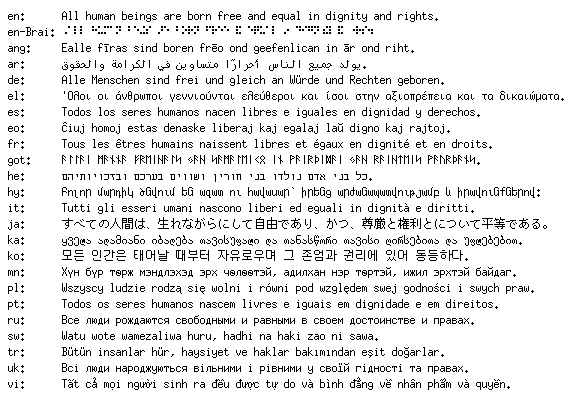
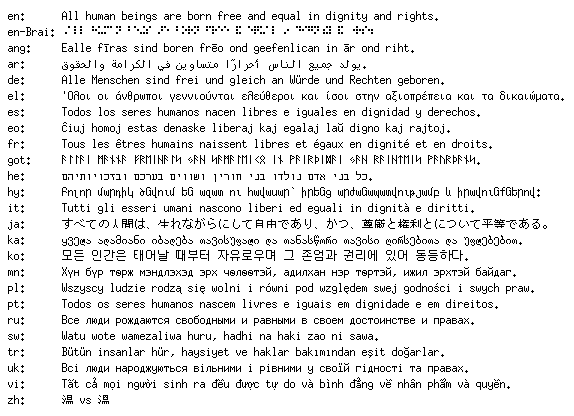
Add Chinese glyphs (experimentally)

Changed region(s): [[0.0, 0.03, 0.9774, 0.99], [0.0, 0.84, 0.0592, 0.99], [0.7108, 0.03, 0.77, 0.06]]

diff --git a/internal/wqi/glyph.go b/internal/wqi/glyph.go
@@ -1,0 +1,85 @@
+// Copyright 2018 Hajime Hoshi
+//
+// Licensed under the Apache License, Version 2.0 (the "License");
+// you may not use this file except in compliance with the License.
+// You may obtain a copy of the License at
+//
+//     http://www.apache.org/licenses/LICENSE-2.0
+//
+// Unless required by applicable law or agreed to in writing, software
+// distributed under the License is distributed on an "AS IS" BASIS,
+// WITHOUT WARRANTIES OR CONDITIONS OF ANY KIND, either express or implied.
+// See the License for the specific language governing permissions and
+// limitations under the License.
+
+package wqi
+
+import (
+	"os"
+	"path/filepath"
+	"runtime"
+
+	"github.com/hajimehoshi/bitmapfont/v2/internal/bdf"
+)
+
+func readBDF() (map[rune]*bdf.Glyph, error) {
+	_, current, _, _ := runtime.Caller(1)
+	dir := filepath.Dir(current)
+
+	// Download wqy-bitmapsong-bdf-1.0.0-RC1.tar.gz from
+	// https://sourceforge.net/projects/wqy/files/wqy-bitmapfont/1.0.0-RC1/
+	// This file is not in the repository due to the license issue.
+	f, err := os.Open(filepath.Join(dir, "wenquanyi_9pt.bdf"))
+	if err != nil {
+		return nil, err
+	}
+	defer f.Close()
+
+	glyphs, err := bdf.Parse(f)
+	if err != nil {
+		return nil, err
+	}
+
+	m := map[rune]*bdf.Glyph{}
+
+	for _, g := range glyphs {
+		g.ShiftY -= 1
+		m[rune(g.Encoding)] = g
+	}
+
+	return m, nil
+}
+
+func isCJKUnifiedIdeograph(r rune) bool {
+	// CJK Unified Ideographs
+	if 0x4E00 <= r && r <= 0x9FFF {
+		return true
+	}
+	// CJK Unified Ideographs Extension A
+	if 0x3400 <= r && r <= 0x4DBF {
+		return true
+	}
+	return false
+}
+
+var glyphs map[rune]*bdf.Glyph
+
+func init() {
+	var err error
+	glyphs, err = readBDF()
+	if err != nil {
+		panic(err)
+	}
+}
+
+func Glyph(r rune) (*bdf.Glyph, bool) {
+	if !isCJKUnifiedIdeograph(r) {
+		return nil, false
+	}
+
+	g, ok := glyphs[r]
+	if !ok {
+		return nil, false
+	}
+	return g, true
+}

diff --git a/fontchinese.go b/fontchinese.go
@@ -1,0 +1,56 @@
+// Copyright 2020 Hajime Hoshi
+//
+// Licensed under the Apache License, Version 2.0 (the "License");
+// you may not use this file except in compliance with the License.
+// You may obtain a copy of the License at
+//
+//     http://www.apache.org/licenses/LICENSE-2.0
+//
+// Unless required by applicable law or agreed to in writing, software
+// distributed under the License is distributed on an "AS IS" BASIS,
+// WITHOUT WARRANTIES OR CONDITIONS OF ANY KIND, either express or implied.
+// See the License for the specific language governing permissions and
+// limitations under the License.
+
+// +build chinese
+
+package bitmapfont
+
+import (
+	"bytes"
+	"compress/gzip"
+	"io/ioutil"
+
+	"golang.org/x/image/font"
+	"golang.org/x/image/math/fixed"
+
+	"github.com/hajimehoshi/bitmapfont/v2/internal/bitmap"
+)
+
+func init() {
+	const (
+		imageWidth  = 12 * 256
+		imageHeight = 16 * 256
+
+		dotX = 4
+		dotY = 12
+	)
+
+	s, err := gzip.NewReader(bytes.NewReader(compressedFontAlphaFaceChinese))
+	if err != nil {
+		panic(err)
+	}
+	defer s.Close()
+
+	bits, err := ioutil.ReadAll(s)
+	if err != nil {
+		panic(err)
+	}
+
+	FaceChinese = bitmap.NewFace(bitmap.NewBinaryImage(bits, imageWidth, imageHeight), fixed.I(dotX), fixed.I(dotY), true)
+}
+
+var (
+	// FaceChinese is a font.Face of the bitmap font (12px regular, prefer Chinese characters).
+	FaceChinese font.Face
+)

diff --git a/internal/gen/gen.go b/internal/gen/gen.go
@@ -31,12 +31,14 @@ import (
 	"github.com/hajimehoshi/bitmapfont/v2/internal/baekmuk"
 	"github.com/hajimehoshi/bitmapfont/v2/internal/fixed"
 	"github.com/hajimehoshi/bitmapfont/v2/internal/mplus"
+	"github.com/hajimehoshi/bitmapfont/v2/internal/wqi"
 )
 
 var (
 	flagWidths   = flag.Bool("widths", false, "output widths infomation")
 	flagOutput   = flag.String("output", "", "output file")
 	flagEastAsia = flag.Bool("eastasia", false, "prefer east Asia punctuations")
+	flagChinese  = flag.Bool("chinese", false, "prefer Chiinese glyphs")
 )
 
 const (
@@ -52,6 +54,7 @@ const (
 	fontTypeMPlus
 	fontTypeBaekmuk
 	fontTypeArabic
+	fontTypeWqi
 )
 
 func getFontType(r rune) fontType {
@@ -75,6 +78,11 @@ func getFontType(r rune) fontType {
 
 	if _, ok := fixed.Glyph(r, 12); ok {
 		return fontTypeFixed
+	}
+	if *flagChinese {
+		if _, ok := wqi.Glyph(r); ok {
+			return fontTypeWqi
+		}
 	}
 	if _, ok := mplus.Glyph(r, 12); ok {
 		return fontTypeMPlus
@@ -109,6 +117,11 @@ func getGlyph(r rune) (image.Image, bool) {
 		}
 	case fontTypeArabic:
 		g, ok := arabic.Glyph(r)
+		if ok {
+			return g, true
+		}
+	case fontTypeWqi:
+		g, ok := wqi.Glyph(r)
 		if ok {
 			return g, true
 		}

diff --git a/generate.go b/generate.go
@@ -25,4 +25,7 @@ package bitmapfont
 //go:generate go run -tags=generate ./internal/gen -eastasia -output /tmp/compressedFontAlphaFaceEA
 //go:generate file2byteslice -input /tmp/compressedFontAlphaFaceEA -output faceea.go -package bitmapfont -var compressedFontAlphaFaceEA
 
+//go:generate go run -tags=generate ./internal/gen -chinese -output /tmp/compressedFontAlphaFaceChinese
+//go:generate file2byteslice -input /tmp/compressedFontAlphaFaceChinese -output facechinese.go -package bitmapfont -var compressedFontAlphaFaceChinese
+
 //go:generate gofmt -s -w .

diff --git a/internal/bitmap/bitmap.go b/internal/bitmap/bitmap.go
@@ -182,6 +182,7 @@ func (f *Face) Kern(r0, r1 rune) fixed.Int26_6 {
 	return 0
 
 }
+
 func (f *Face) Metrics() font.Metrics {
 	return font.Metrics{
 		Height:  fixed.I(f.charHeight()),
